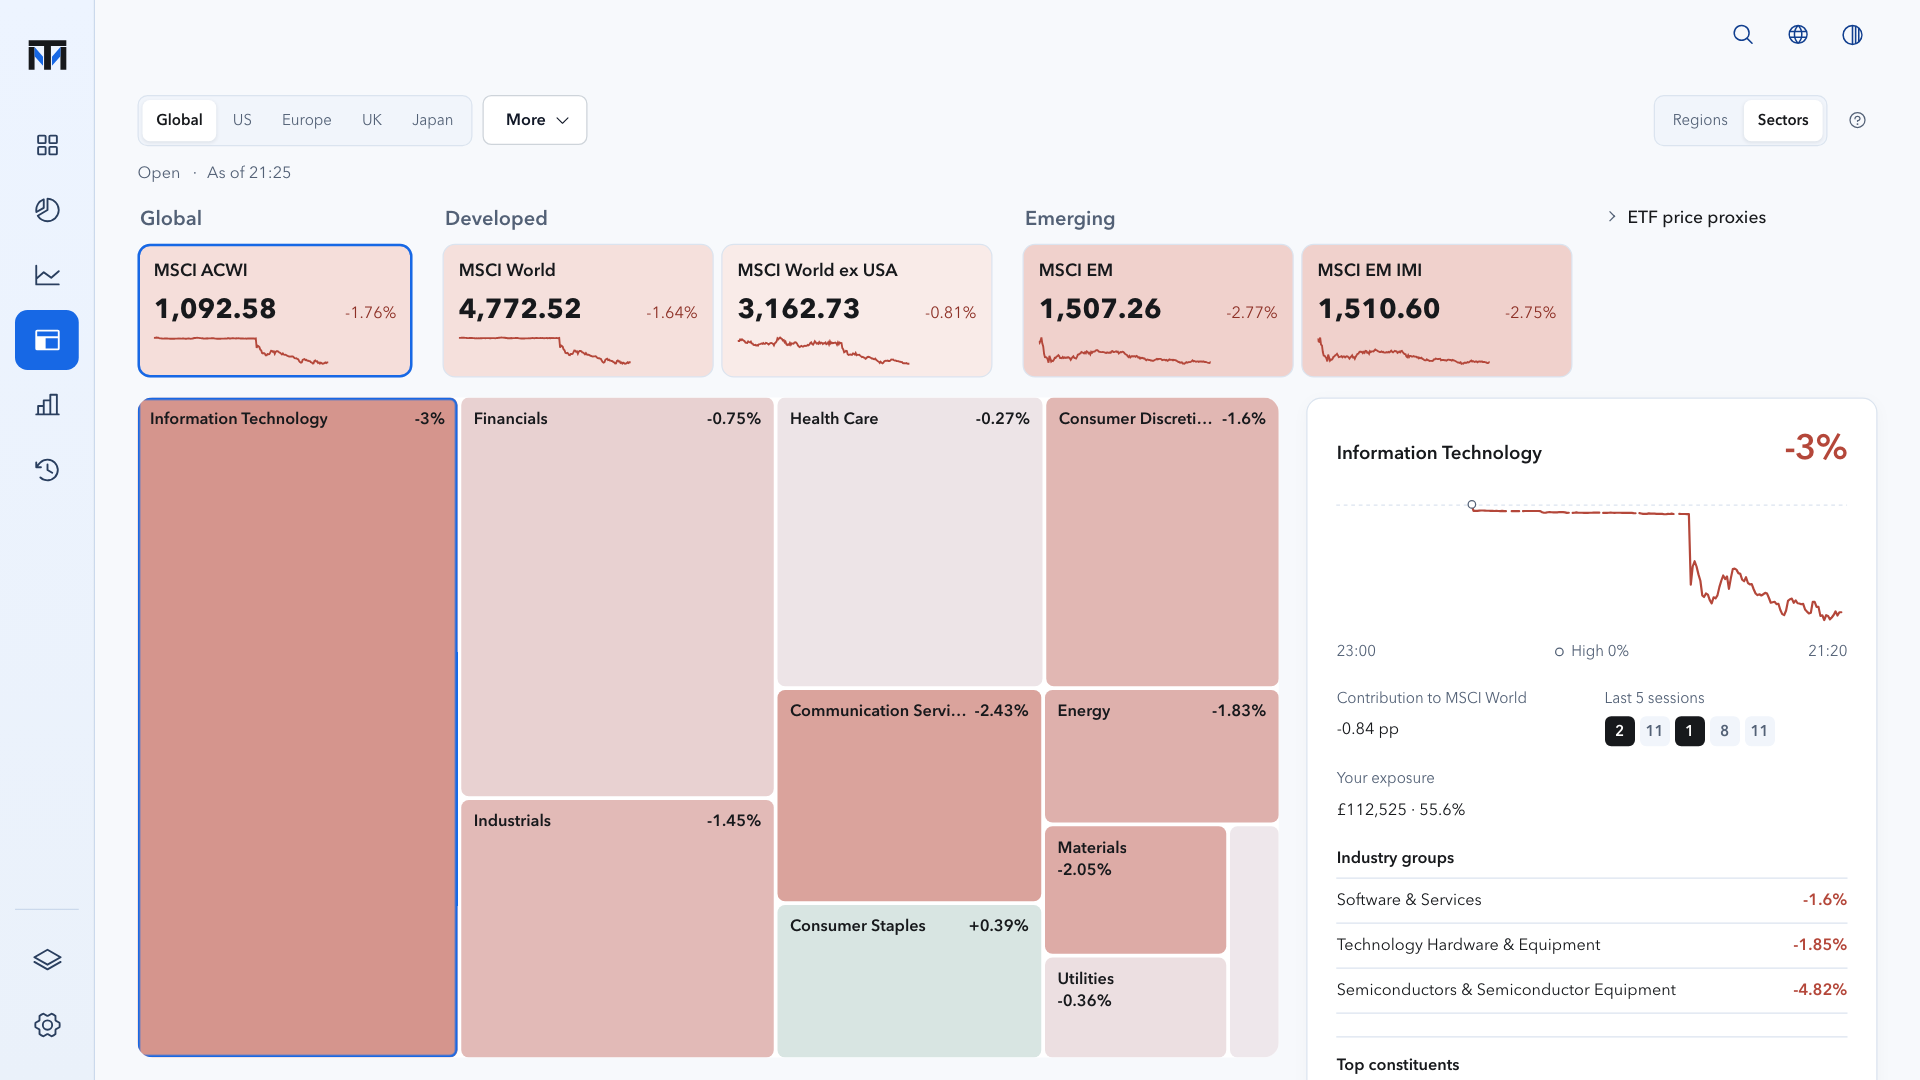
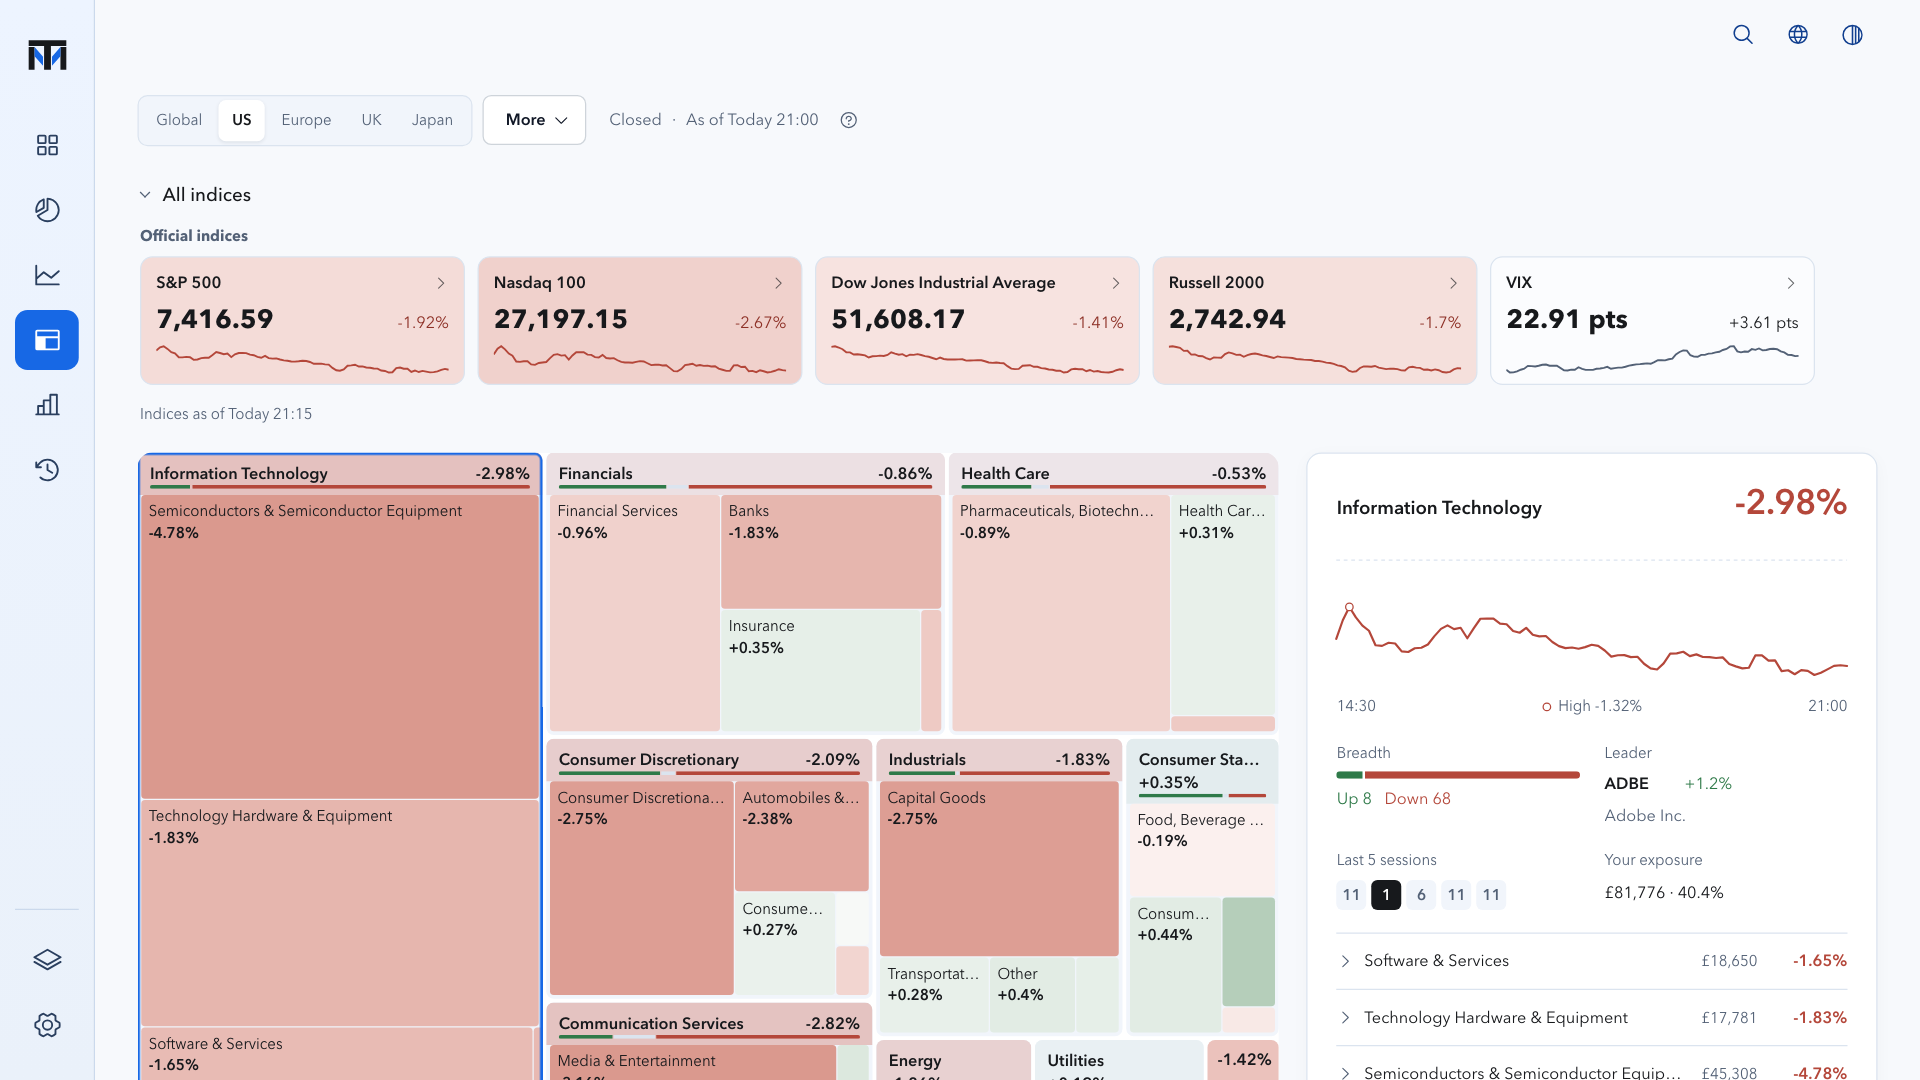
Show US sectors in the README Markets screenshot (#255)
## Summary

- Replace `docs/assets/markets-sectors.png` with **Markets → US →
Sectors**: the US index cards, the US sector map and the Information
Technology detail, instead of the Global sectors view.
- Update the image's alt text in the README to match.

The capture shows the US close on 16 November 2026 (S&P 500 −1.92%,
Information Technology −2.98%), with the intraday path from 14:30 to
21:00 London time. The other four README screenshots are unchanged.

## Verification

- Captured at 1920×1080 (1536×864 CSS at 1.25×) in English, light theme,
from a local broker-mock preview: a hypothetical portfolio with real
market and company data. No real account data and no production server.
- `uv run python tools/check_documentation.py`
- `uv run python tools/check_repository_hygiene.py`
- `uv run python tools/check_release_readiness.py` and `--public`
- `uv run python tools/check_version_consistency.py` (1.52.0)
- `uv run python tools/check_release_scope.py --base <origin/main>
--head HEAD`: non-product change, release skipped.

## Compatibility

Documentation and images only. No version change, release or deployment.

diff --git a/README.md b/README.md
@@ -51,7 +51,7 @@
   weights.
 
 <p align="center">
-  <img src="docs/assets/markets-sectors.png" alt="Markets, Global sectors: MSCI index cards, a sector map sized by weight and the Information Technology detail with its intraday path and your exposure" width="49%">
+  <img src="docs/assets/markets-sectors.png" alt="Markets, US sectors: US index cards, the S&P 500 sector map sized by index weight and the Information Technology detail with its intraday path, breadth and your exposure" width="49%">
   <img src="docs/assets/holdings-exposure.png" alt="Look-through by company as a composition ring, with AMD's value held directly and via funds" width="49%">
 </p>
 <p align="center">
